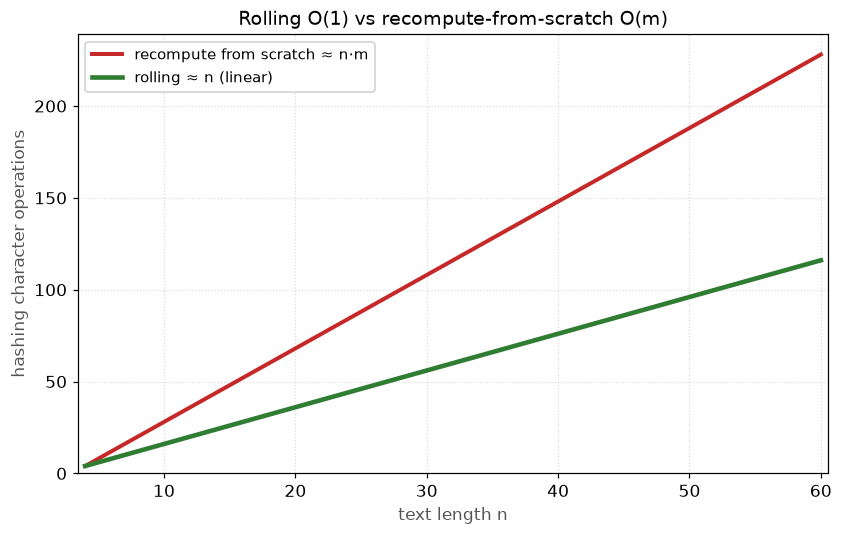
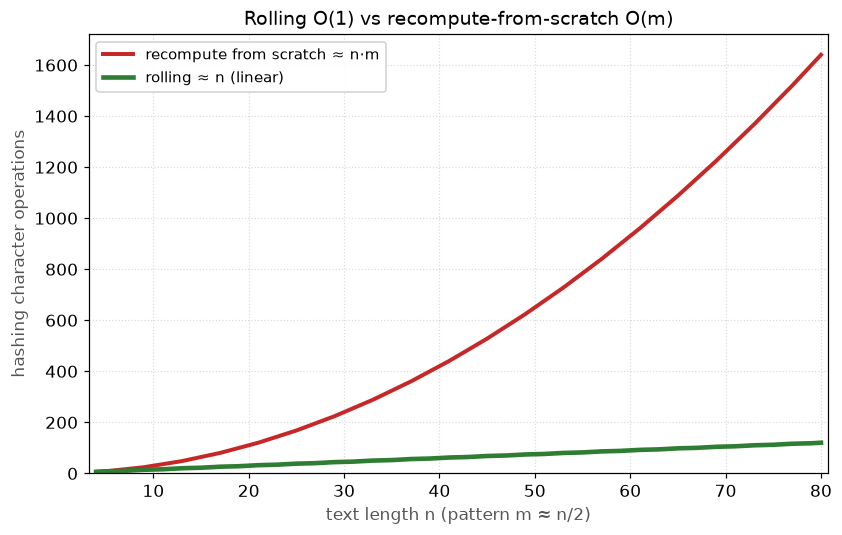
rolling_vs_recompute: над-лінійна крива (m ∝ n) — перерахунок n·m квадратичний, rolling лінійний

diff --git a/rabin_karp_string_search/visualization.py b/rabin_karp_string_search/visualization.py
@@ -709,30 +709,35 @@ def draw_search_evolution(
 # Контраст / підсумок
 # ===========================================================================
 def draw_rolling_vs_recompute(
-    pattern: str = "abcd",
     *,
-    n_max: int = 60,
+    m_ratio: float = 0.5,
+    n_max: int = 80,
     figsize: Tuple[float, float] = (7.8, 5.0),
 ):
     """Графік: rolling :math:`O(1)` проти перерахунку хешу з нуля :math:`O(m)`.
 
-    Для тексту довжини ``n`` (із шаблоном завдовжки ``m = len(pattern)``) рахуємо
-    «символьні операції хешування»: rolling росте **лінійно** за ``n``, а
-    перерахунок із нуля — як ``n·m``. Це і є пейофф ковзного хешу.
+    Рахуємо «символьні операції хешування» для тексту довжини ``n``, де **шаблон
+    зростає разом із текстом** (``m ≈ m_ratio·n``) — саме так розкривається
+    асимптотика. Перерахунок вікна з нуля коштує :math:`O(m)` на крок, тож сумарно
+    :math:`O(n\\cdot m)` — при ``m ∝ n`` це **над-лінійна** (квадратична) крива.
+    Rolling оновлює хеш за :math:`O(1)` на крок → :math:`O(n)`, лінійна. Розрив
+    зростає необмежено — ось пейофф ковзного хешу (узгоджено з :func:`draw_complexity`).
 
     :returns: об'єкт ``Figure``.
     """
-    m = len(pattern)
-    ns = np.arange(m, n_max + 1)
-    rolling = [count_hash_char_ops("a" * int(n), pattern, rolling=True) for n in ns]
-    recompute = [count_hash_char_ops("a" * int(n), pattern, rolling=False) for n in ns]
+    ns = np.arange(4, n_max + 1)
+    ms = [max(2, int(round(m_ratio * int(n)))) for n in ns]
+    rolling = [count_hash_char_ops("a" * int(n), "a" * m, rolling=True)
+               for n, m in zip(ns, ms)]
+    recompute = [count_hash_char_ops("a" * int(n), "a" * m, rolling=False)
+                 for n, m in zip(ns, ms)]
 
     fig, ax = plt.subplots(figsize=figsize)
     ax.plot(ns, recompute, color=CURVE_RK_WORST, lw=2.6,
             label=t("перерахунок із нуля ≈ n·m"))
     ax.plot(ns, rolling, color=CURVE_RK_AVG, lw=3.0, label=t("rolling ≈ n (лінійно)"))
     ax.set_title(t("Rolling O(1) проти перерахунку з нуля O(m)"), fontsize=12.5)
-    ax.set_xlabel(t("довжина тексту n"), fontsize=11, color=HEADER_TXT)
+    ax.set_xlabel(t("довжина тексту n (шаблон m ≈ n/2)"), fontsize=11, color=HEADER_TXT)
     ax.set_ylabel(t("символьних операцій хешування"), fontsize=11, color=HEADER_TXT)
     ax.legend(loc="upper left", fontsize=10, frameon=True, framealpha=0.92)
     ax.grid(True, linestyle=":", alpha=0.45)

diff --git a/tests/test_smoke.py b/tests/test_smoke.py
@@ -108,7 +108,7 @@ def test_collision_and_summary_figures_render():
     _close(draw_collision("heap", "user"))
     _close(draw_compare_four(RAW, KONSPECT_PATTERN))
     _close(draw_complexity())
-    _close(draw_rolling_vs_recompute("abcd"))
+    _close(draw_rolling_vs_recompute())
     _, cev = rabin_karp_search_steps(SEARCH_COLLISION.text, SEARCH_COLLISION.pattern)
     _close(draw_search_evolution(cev))
 
@@ -202,7 +202,7 @@ def test_en_translation_audit():
         draw_collision("for", "jar"); plt.close("all")
         draw_compare_four(RAW, KONSPECT_PATTERN); plt.close("all")
         draw_complexity(); plt.close("all")
-        draw_rolling_vs_recompute("abcd"); plt.close("all")
+        draw_rolling_vs_recompute(); plt.close("all")
         # панелі коду
         for s in build_hash_steps("abc") + build_search_steps("for jar", "jar"):
             render_code_step(s); plt.close("all")

diff --git a/examples/03_rolling_collisions.py b/examples/03_rolling_collisions.py
@@ -69,7 +69,7 @@ def main() -> None:
         print(t("  n={n:>2}: rolling {roll} символьних операцій, перерахунок {rec}").format(
             n=n, roll=roll, rec=recompute))
     print()
-    save_figure(draw_rolling_vs_recompute("abcd"), "rolling_vs_recompute.png")
+    save_figure(draw_rolling_vs_recompute(), "rolling_vs_recompute.png")
 
     # один кадр rolling-оновлення (з конспект-пошуку)
     _, kev = rabin_karp_search_steps("Being a developer is not easy", "developer")

diff --git a/rabin_karp_string_search/i18n.py b/rabin_karp_string_search/i18n.py
@@ -150,6 +150,7 @@ _EN: Dict[str, str] = {
     "перерахунок із нуля ≈ n·m": "recompute from scratch ≈ n·m",
     "rolling ≈ n (лінійно)": "rolling ≈ n (linear)",
     "довжина тексту n": "text length n",
+    "довжина тексту n (шаблон m ≈ n/2)": "text length n (pattern m ≈ n/2)",
     "символьних операцій хешування": "hashing character operations",
 
     # --- visualization: складність ---------------------------------------------

diff --git a/README.en.md b/README.en.md
@@ -286,7 +286,7 @@ Rolling hash: O(1) update vs recompute-from-scratch O(m)
 
 ![Graph: rolling O(1) vs recompute-from-scratch O(m)](docs/images/en/rolling_vs_recompute.png)
 
-Rolling grows **linearly** in `n`; recomputing from scratch grows like `n·m`.
+The text block above is a concrete short pattern `"abcd"` (rolling is ~2× cheaper). In the graph the pattern **grows with the text** (`m ≈ n/2`), so recomputing from scratch becomes a **quadratic** curve (red) `≈ n·m` that pulls away from the **linear** rolling one (green) `≈ n` without bound.
 
 ---
 